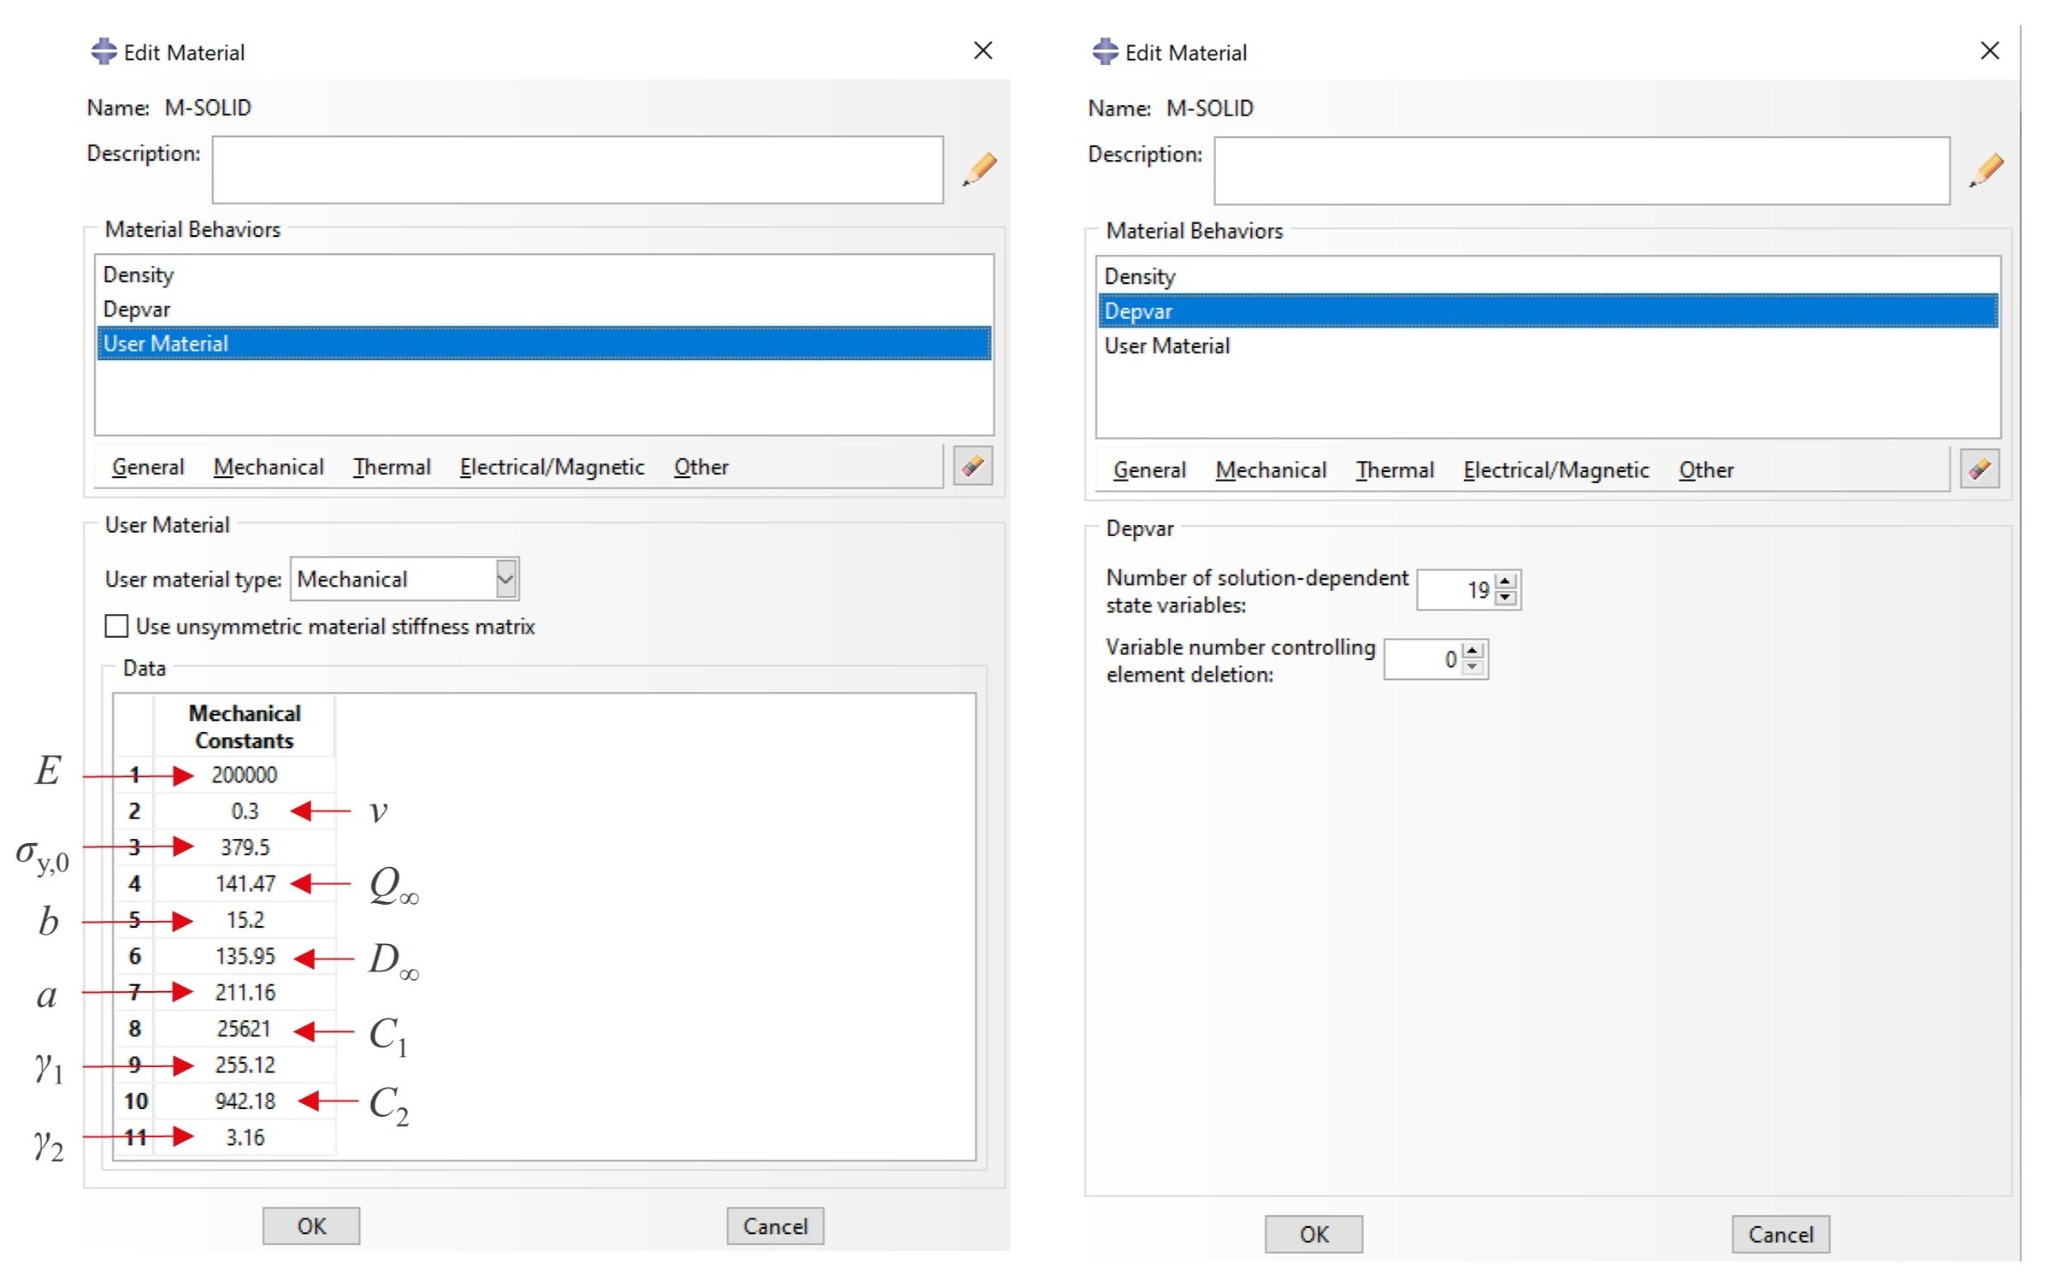
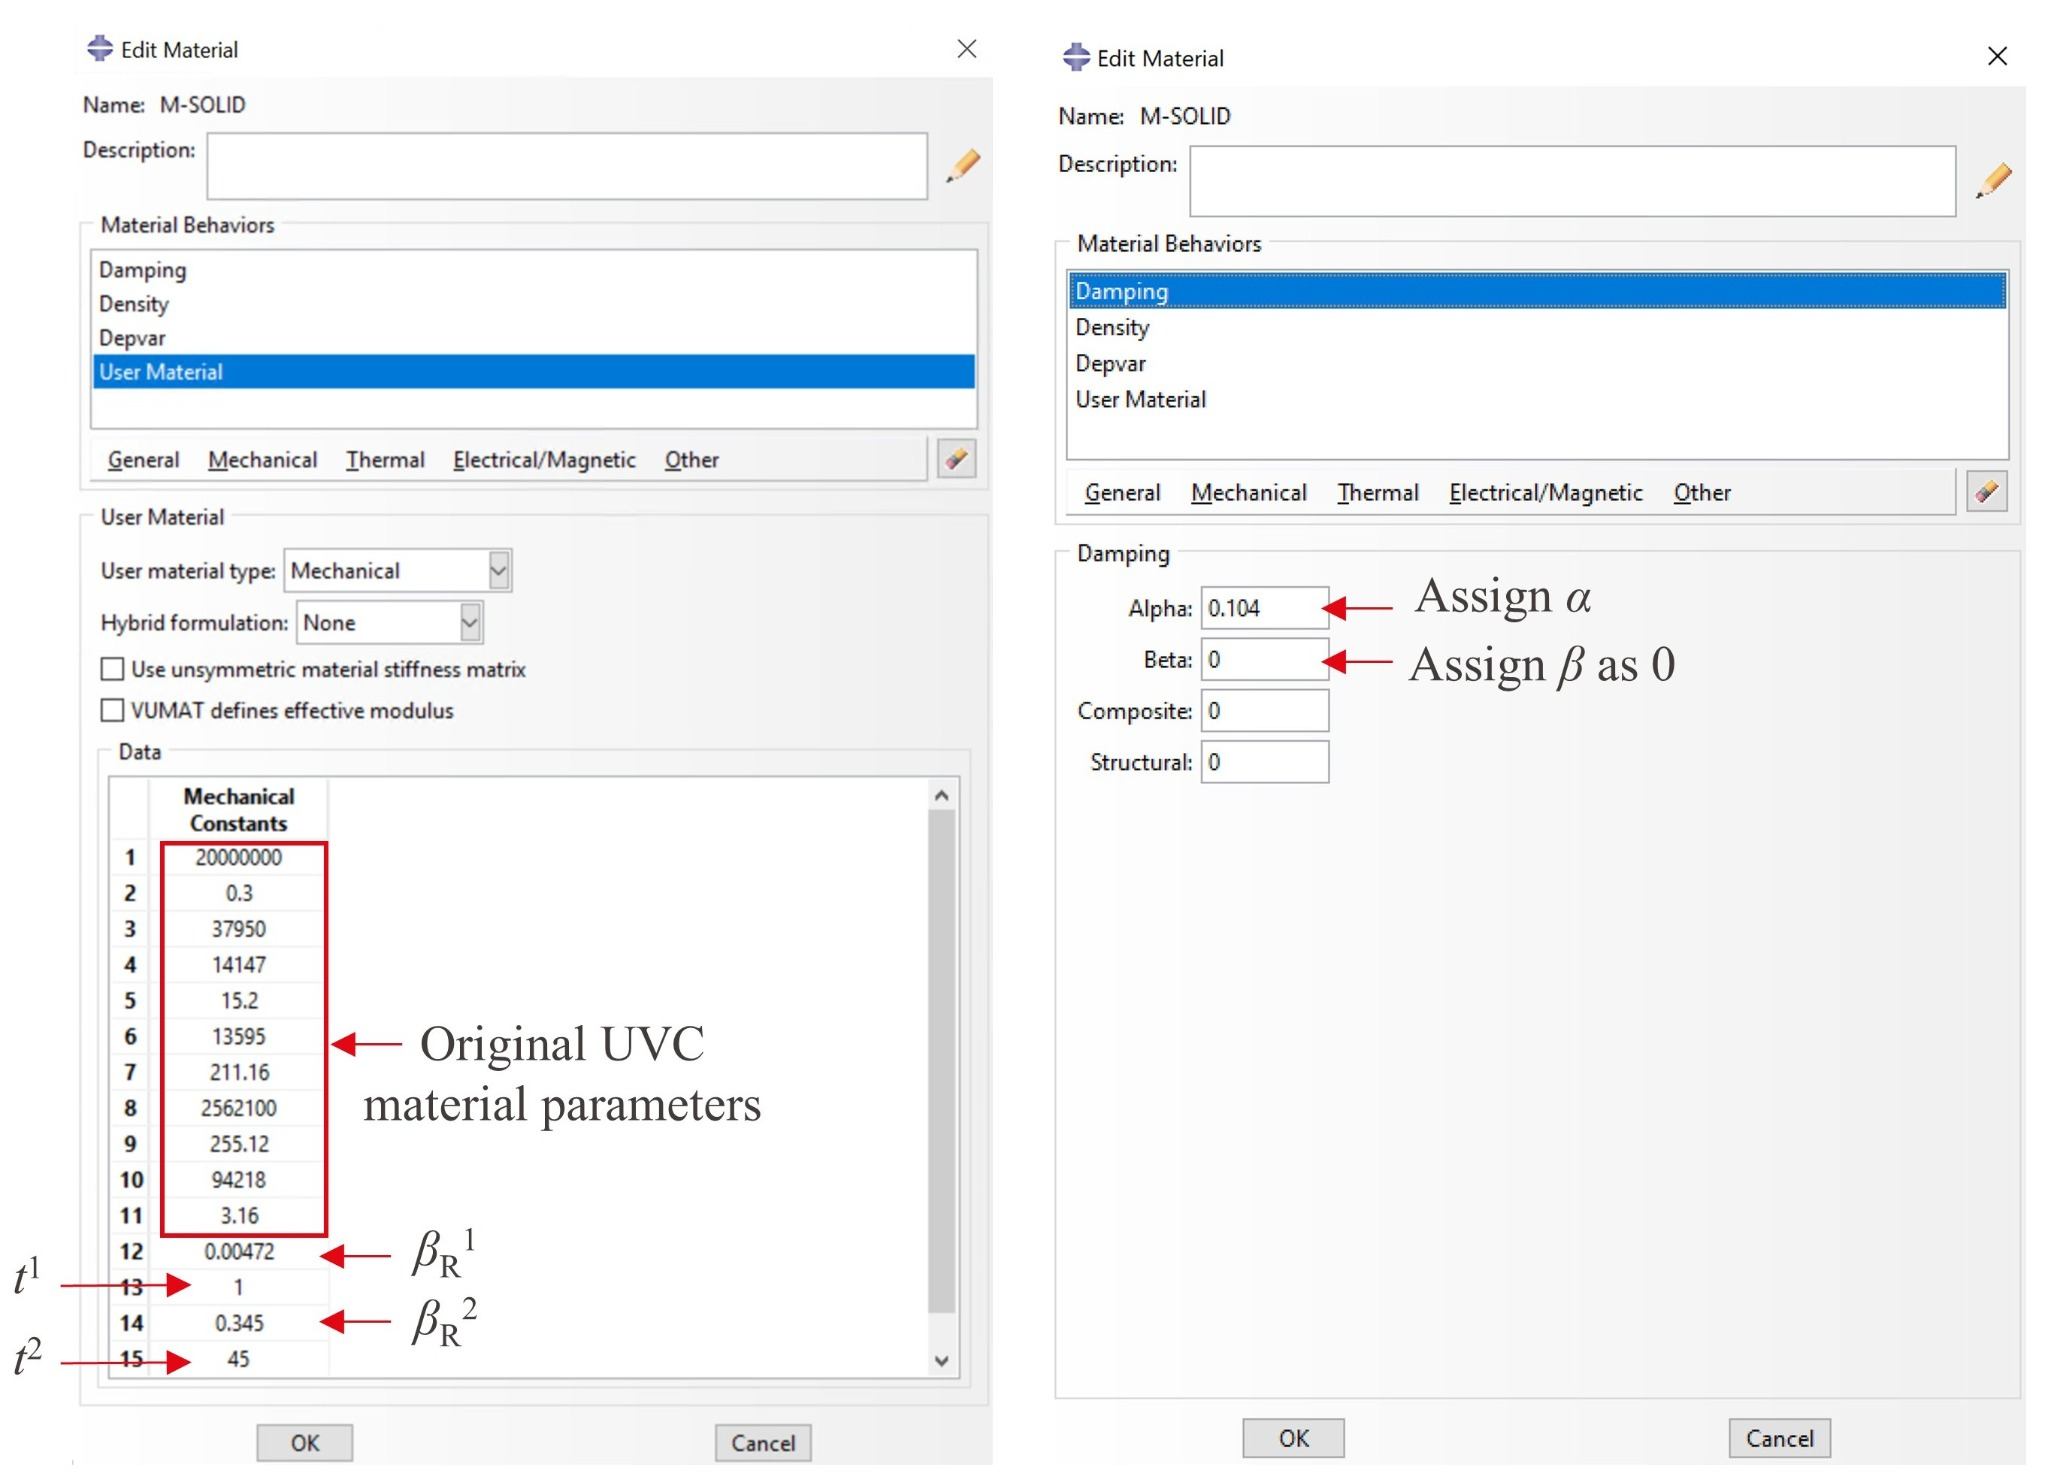
Readme updated

diff --git a/Abaqus/README.md b/Abaqus/README.md
@@ -2,11 +2,11 @@
 
 This directory provides Updated Voce–Chaboche (UVC) user material subroutines for Abaqus/Standard. The constitutive model combines nonlinear isotropic and kinematic hardening to describe structural steels under cyclic loading; see Hartloper et al. (2021).
 
-The reference implementation is the **[RESSLab version of UVC](https://github.com/RESSLab-Team/UVC_MatMod)**. All four UMATs supplied here extend that implementation with optional, time-dependent stiffness-proportional damping, including the uniaxial residual-stress variant. In this document, **UVC-D** denotes the damping-enabled mode of these files. It does not denote a separate set of `-D.for` files.
+The implementation is based on the **[RESSLab version of UVC](https://github.com/RESSLab-Team/UVC_MatMod)** and includes optional, time-dependent stiffness-proportional damping. All four UMATs, including the uniaxial residual-stress variant, provide this damping option within the UVC model.
 
 ![Single-degree-of-freedom model and comparison of point-mass absolute acceleration histories](figures/Fig1.jpg)
 
-**Figure 1.** Supplied elastic-response comparison: (a) a point mass connected through an MPC beam constraint to the top of a wide-flange member subjected to sinusoidal base excitation; (b) point-mass absolute acceleration from a built-in elastic material with $\beta=0.005$ and the modified UVC implementation operating in its elastic range with $\beta_R=0.005$.
+**Figure 1.** Elastic-response comparison: (a) a point mass connected through an MPC beam constraint to the top of a wide-flange member subjected to sinusoidal base excitation; (b) point-mass absolute acceleration from a built-in elastic material with $\beta=0.005$ and UVC operating in its elastic range with $\beta_R=0.005$.
 
 The plotted responses closely overlap for this example. This comparison illustrates the elastic damping contribution; it does not by itself validate nonlinear cyclic response, every stress-state implementation, or compiler compatibility. The figure is supplied as documentation; a corresponding runnable model, raw response data, and validation slides are not included in this package.
 
@@ -31,7 +31,7 @@ Use Abaqus linked to a compatible Fortran compiler, and make the selected `.for`
 git clone https://github.com/RESSLab-Team/UVC_MatMod.git
 ```
 
-For the damping extension documented here, use the files bundled with this package; cloning the RESSLab reference alone does not establish that it contains these same extensions.
+Use the UMAT files bundled with this package for the input definitions and damping option documented below.
 
 Historical testing of the reference implementation used Abaqus 6.14, Intel Fortran (`ifort`), and Visual Studio Community 2013. Those results do not establish compatibility of this modified package with every later Abaqus/compiler combination. Consult the [compiler notes in the main README](../README.md#abaqus-and-fortran-compiler-compatibility) and the compiler requirements for your installed Abaqus release.
 
@@ -51,7 +51,7 @@ Create a material using **General → User Material → Mechanical**. Enter the 
 
 Each subroutine can run with or without the added stiffness-proportional damping. It determines the mode from the combination of `NPROPS` (number of constants) and `NSTATV` (Depvar). **The four damping constants must be the last four inputs.** They follow all backstress pairs; in `UVCuniaxial_IS.for`, the six geometry and integration-point inputs also precede them.
 
-### Constitutive parameters from the RESSLab version
+### Constitutive parameters
 
 Let $N\geq 1$ be the number of backstresses. Each $C_k$ must be followed by its corresponding $\gamma_k$.
 
@@ -100,9 +100,9 @@ Use $0\leq t^1<t^2$ and nonnegative damping coefficients for the staged damping 
 
 ### Required counts
 
-“Without damping” below means without the added UMAT stiffness-proportional term; mass-proportional damping is configured separately.
+The counts depend on whether the optional UMAT stiffness-proportional damping inputs are included. Mass-proportional damping is configured separately.
 
-| Subroutine | Constants without damping | Depvar without damping | Constants with damping | Depvar with damping |
+| Subroutine | Constants: damping disabled | Depvar: damping disabled | Constants: damping enabled | Depvar: damping enabled |
 |---|---:|---:|---:|---:|
 | Uniaxial | $6+2N$ | $1+N$ | $10+2N$ | $2+N$ |
 | Plane stress | $7+2N$ | $4+3N$ | $11+2N$ | $7+3N$ |
@@ -111,7 +111,7 @@ Use $0\leq t^1<t^2$ and nonnegative damping coefficients for the staged damping 
 
 For **two backstresses** ($N=2$):
 
-| Subroutine | Constants / Depvar without damping | Constants / Depvar with damping | Damping input positions |
+| Subroutine | Constants / Depvar: damping disabled | Constants / Depvar: damping enabled | Damping input positions |
 |---|---:|---:|---|
 | Uniaxial | 10 / 3 | 14 / 4 | 11–14 |
 | Plane stress | 11 / 10 | 15 / 13 | 12–15 |
@@ -119,10 +119,6 @@ For **two backstresses** ($N=2$):
 | Uniaxial with residual stress (`IS`) | 16 / 3 | 20 / 4 | 17–20 |
 
 Do not allocate extra SDVs “just in case”: the code uses the exact Depvar count to identify the input layout and exits if neither layout matches. Supply complete backstress pairs and exactly the required constants. Setting both damping coefficients to zero while retaining all four damping inputs still requires the damping-enabled Depvar count.
-
-![RESSLab UVC parameter order and Depvar for a three-dimensional material with two backstresses](figures/Fig2.jpg)
-
-**Figure 2.** Material setup without the added damping term: 11 constants and Depvar = 19 for the multiaxial case with two backstresses. The displayed material parameters follow the RESSLab version of UVC.
 
 ## 3. Stiffness-proportional damping implementation
 
@@ -152,11 +148,13 @@ For uniaxial response, replace $\mathbf D^{el}$ with $E$. The time-dependent coe
 
 $$
 \beta_R(t)=
-\begin{cases}
-0, & t<t^1,\\
-\beta_R^1, & t^1\leq t<t^2,\\
-\beta_R^2, & t\geq t^2.
-\end{cases}
+\left\{
+\begin{array}{ll}
+0, & t<t_1,\\
+\beta_R^1, & t_1\le t<t_2,\\
+\beta_R^2, & t\ge t_2.
+\end{array}
+\right.
 $$
 
 The implementation stores the constitutive stress $\boldsymbol\sigma_{\mathrm{UVC}}$ in the additional SDVs before adding the damping stress to `STRESS`. The next increment starts from this stored constitutive stress, so the damping stress is not accumulated as plasticity-model stress. Both stress and `DDSDDE` receive the damping contribution. When `DTIME <= 0`, the added damping contribution is skipped.
@@ -173,22 +171,22 @@ The code does not identify whether a step is static or dynamic. A static step th
 
 Under **Mechanical → Damping**, assign the required mass-proportional coefficient $\alpha$ and set the material **Beta field to zero**. Enter $\beta_R^1$ and $\beta_R^2$ only in the User Material constants. Mass-proportional damping is optional; use $\alpha=0$ if it is not required. The UMAT's time switches control only its added stiffness-proportional term, not $\alpha$.
 
-![Damping-enabled material constants and the separate Abaqus mass-proportional damping setting](figures/Fig3.jpg)
+![UVC material constants with optional damping and the Abaqus mass-proportional damping setting](figures/Fig2.jpg)
 
-**Figure 3.** Example with two backstresses and the four damping inputs appended in positions 12–15: $\beta_R^1=0.00472$, $t^1=1$, $\beta_R^2=0.345$, and $t^2=45$. The Abaqus damping dialog shows $\alpha=0.104$ and Beta = 0. For the multiaxial subroutine, this setup requires **Depvar = 25**; for plane stress it requires **13**. The label “Original UVC material parameters” in the supplied image refers to the **[RESSLab version of UVC](https://github.com/RESSLab-Team/UVC_MatMod)**.
+**Figure 2.** UVC material setup with two backstresses and optional damping. The red box encloses the constitutive parameters, followed by the four damping inputs in positions 12–15: $\beta_R^1=0.00472$, $t^1=1$, $\beta_R^2=0.345$, and $t^2=45$. The Abaqus damping dialog shows $\alpha=0.104$ and Beta = 0. For the multiaxial subroutine, this setup requires **Depvar = 25**; for plane stress it requires **13**.
 
-The stress-valued constants in Figure 3 are 100 times those in Figure 2, consistent with converting N/mm² to N/cm². The screenshots therefore illustrate different length units; use one consistent unit system throughout the actual model. The damping coefficients are example values, not a general calibration.
+The stress-valued constants shown in Figure 2 use N/cm². The input-file example below expresses the same constitutive parameters in N/mm², so those values are divided by 100. Use one consistent unit system throughout the actual model. The damping coefficients are example values, not a general calibration.
 
-![Example story drift history showing two total-time thresholds for stiffness-proportional damping](figures/Fig4.jpg)
+![Example story drift history showing two total-time thresholds for stiffness-proportional damping](figures/Fig3.jpg)
 
-**Figure 4.** Illustration of the two damping stages in a moment-resisting frame analysis. The phrase “No damping before $t^1$” in the image refers only to the added **stiffness-proportional** term. A larger second-stage coefficient suppresses free vibration to assist residual-drift evaluation in this example; its value and activation time should be chosen for the intended post-motion analysis.
+**Figure 3.** Illustration of the two damping stages in a moment-resisting frame analysis. The phrase “No damping before $t^1$” in the image refers only to the optional **stiffness-proportional** term. A larger second-stage coefficient suppresses free vibration to assist residual-drift evaluation in this example; its value and activation time should be chosen for the intended post-motion analysis.
 
 ### Input-file example: multiaxial, two backstresses
 
-The following material block uses the stress-valued constants from Figure 2 in N/mm² and the damping values from Figure 3 with time measured in seconds:
+The following UVC material block uses the parameters in Figure 2, with stress-valued constants converted to N/mm² and time measured in seconds:
 
 ```text
-*Material, name=UVC_D
+*Material, name=UVC
 *Damping, alpha=0.104, beta=0.
 *Depvar
 25,
@@ -292,7 +290,7 @@ The integration-point inputs must match the beam section definition. At `TIME(2)
 For two backstresses, the following example uses the constitutive and section values in `Lamarche-1-Beam.inp`, followed by the illustrative damping settings used above:
 
 ```text
-*Material, name=UVC_IS_D
+*Material, name=UVC_IS
 *Damping, alpha=0.104, beta=0.
 *Depvar
 4,
